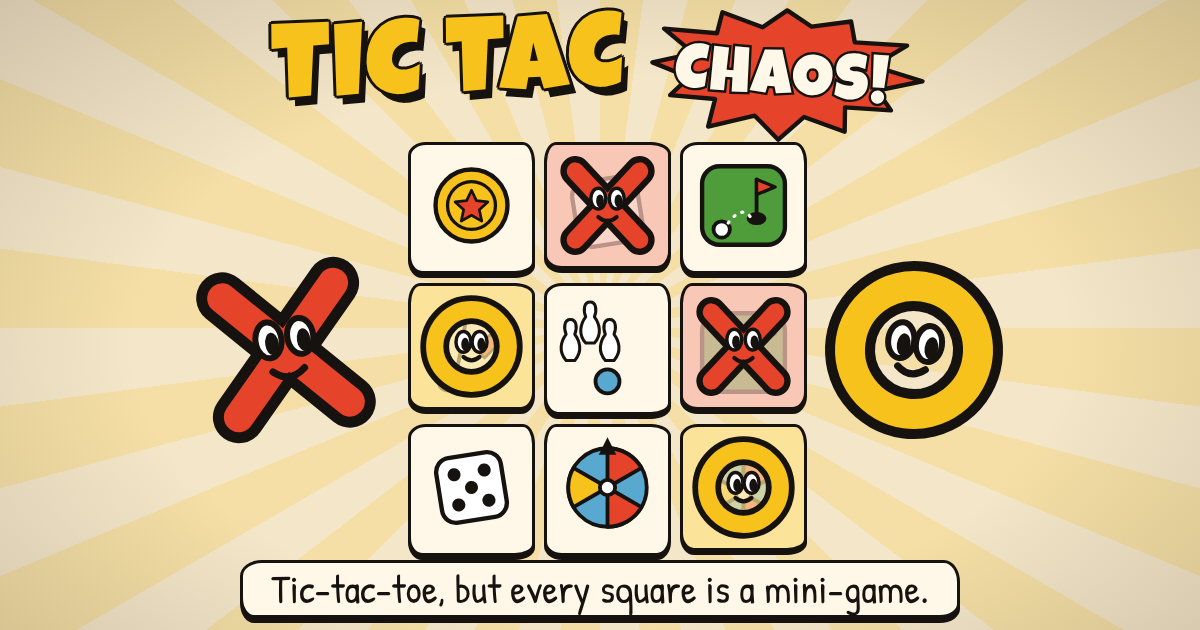
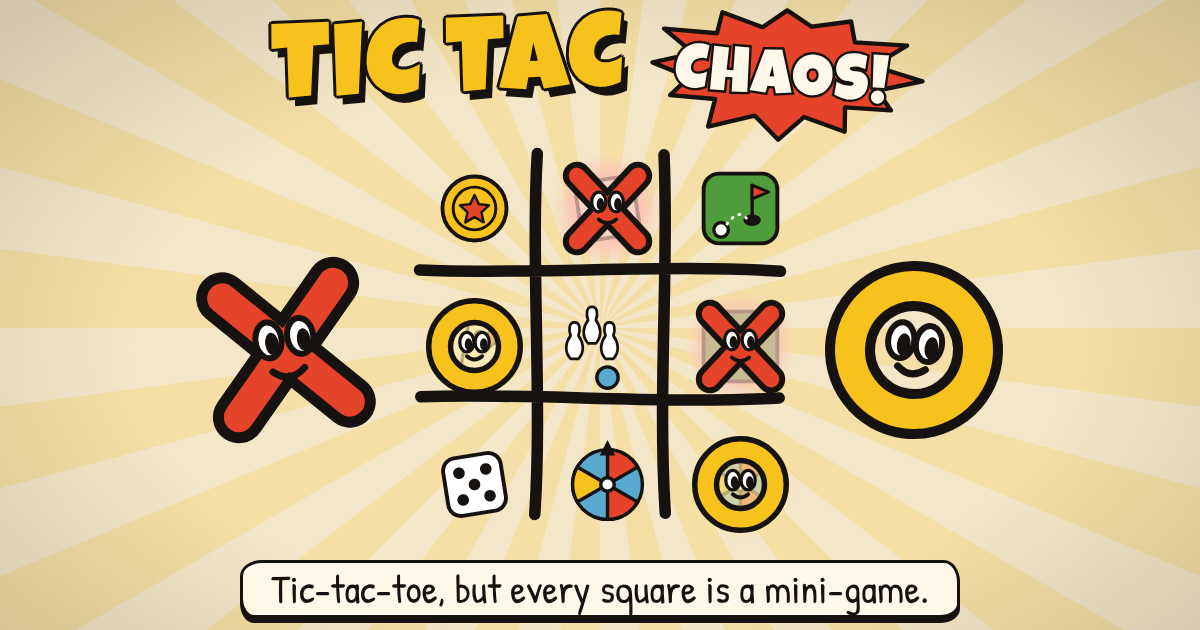
Main board as a classic # grid: hand-drawn strokes, no boxes; glows for highlights; the same # everywhere
- ui/hash.js: one drawing of the # (four bold, slightly wavering strokes with round ends) as SVG and as canvas strokes.
- Main board and review: the spaces have no box, border or frame; each is still its full button (gap 0) with its miniature padded clear of the lines; claims stamp as before.
- Highlights are soft glows in the space: claims, last played, the opponent's chosen square, Super Chaos wins; the draw/reset plays in the open space.
- The result screen's final board, the history snapshot, the share card and the link-preview image use the same #; og-image.png regenerated.
- tests/ui/hash-board.test.mjs; CLAUDE.md note.

Claude-Session: https://claude.ai/code/session_01P6kuR5jsvUvzva5f217c15

Changed region(s): [[0.3392, 0.2111, 0.6783, 0.9048]]

diff --git a/src/ui/styles.css b/src/ui/styles.css
@@ -3087,3 +3087,41 @@ main.scr.mini:has(.brkw.run) .back { visibility: hidden; pointer-events: none; }
 .tbrk .tbrkp { stroke: var(--ink); stroke-width: 1; } .tbrk .tbrkp.X { fill: var(--x); } .tbrk .tbrkp.O { fill: var(--o); }
 .tbrk .tbrko { fill: var(--paper); stroke: var(--ink); stroke-width: 1; }
 .tbrk .tbrkl { font: 800 9px Nunito, Arial, sans-serif; fill: #fff; } .tbrk .tbrkl.X { fill: var(--x); } .tbrk .tbrkl.O { fill: var(--o); }
+
+/* ===== The # board (November 2026): a classic tic-tac-toe grid, no boxes =====
+   The board is four bold hand-drawn strokes with round ends (ui/hash.js, one drawing for every board picture), over
+   nine open spaces with no border, box or outer frame. Each space is still its whole button (gap 0: the tap target
+   is the full space), its miniature padded clear of the lines. Highlights are soft glows in the space (::before):
+   a claim's tint under its stamp, the last-played square, the opponent's chosen square (spot), Super Chaos's wins. */
+.board { gap: 0; }
+.board > .hash { position: absolute; inset: 0; width: 100%; height: 100%; color: var(--ink); pointer-events: none; z-index: 2; overflow: visible; }
+.board .sq { background: transparent; border: 0; border-radius: 0; box-shadow: none; padding: calc(var(--s) * .05); isolation: isolate; overflow: visible; }
+.board .sq:nth-child(2n) { border-radius: 0; }
+.board .sq:active:not(:disabled) { transform: scale(.95); box-shadow: none; }
+.board .sq::before { content: ''; position: absolute; inset: 9%; z-index: -1; border-radius: 46% 40% 48% 42% / 42% 48% 40% 46%; pointer-events: none; opacity: 0; transition: opacity .2s; }
+.board .sq.own-X, .board .sq.own-O, .board .sq.last-X, .board .sq.last-O { box-shadow: none; background: transparent; }
+.board .sq.own-X::before { opacity: 1; background: radial-gradient(closest-side, var(--x-soft) 62%, transparent 100%); }
+.board .sq.own-O::before { opacity: 1; background: radial-gradient(closest-side, var(--o-soft) 62%, transparent 100%); }
+.board .sq.last-X::before { opacity: 1; background: radial-gradient(closest-side, color-mix(in srgb, var(--x) 30%, transparent) 30%, transparent 100%); }
+.board .sq.last-O::before { opacity: 1; background: radial-gradient(closest-side, color-mix(in srgb, var(--o) 38%, transparent) 30%, transparent 100%); }
+.board .sq.spot, .board .sq.scwin { animation: none; }
+.board .sq.spot::before, .board .sq.scwin::before { opacity: 1; inset: 4%; background: radial-gradient(closest-side, color-mix(in srgb, var(--spot) 55%, transparent) 25%, transparent 100%); animation: sqglow 1s ease-in-out infinite; }
+.board .sq.scwin::before { animation-iteration-count: 2; }
+@keyframes sqglow { 0%, 100% { opacity: .55; transform: scale(.9); } 50% { opacity: 1; transform: scale(1.04); } }
+@media (prefers-reduced-motion: reduce) { .board .sq.spot::before, .board .sq.scwin::before { animation: none; } }
+.board .sq .spot-lab { left: 9%; right: 9%; bottom: 7%; }
+.board .sq .lpbs { right: 9%; bottom: 9%; }
+.board .drawold { border-radius: 0; background: transparent; }
+.sq.ztile { background: var(--paper); border-radius: 18px; }   /* (the zoom's tile grows into the game area as a sheet of paper) */
+/* the result screen's final board: the same #, the X and O characters in its spaces, the winning line's glow */
+.final { position: relative; gap: 0; }
+.final > .hash { position: absolute; inset: 0; width: 100%; height: 100%; color: var(--ink); pointer-events: none; }
+.final > i, .final > i.X, .final > i.O { background: transparent; border: 0; border-radius: 0; box-shadow: none; padding: 10%; }
+.final > i.hl { box-shadow: none; background: radial-gradient(closest-side, color-mix(in srgb, var(--sky) 55%, transparent) 40%, transparent 100%); }
+/* the history snapshot: the # at 46px, X and O in its spaces; the player's own squares a soft ink glow */
+.hsnap { position: relative; gap: 0; padding: 0; background: none; border: 0; border-radius: 0; }
+.hsnap > .hash { position: absolute; inset: 0; width: 100%; height: 100%; color: var(--ink); pointer-events: none; }
+.hsnap i, .hsnap i.X, .hsnap i.O { background: transparent; border-radius: 0; box-shadow: none; }
+.hsnap i.mine { box-shadow: none; border-radius: 50%; background: radial-gradient(closest-side, color-mix(in srgb, var(--ink) 18%, transparent) 50%, transparent 100%); }
+.final > i, .final > i.X, .final > i.O { padding: 5%; }
+.final > i .pc { width: 92%; height: 92%; }

diff --git a/src/ui/sharecard.js b/src/ui/sharecard.js
@@ -3,6 +3,7 @@
 // the final board, both names, the result and the site's address (no rematch code: November 2026). The win screen's Share result makes it on a canvas and hands it to the share sheet as a PNG
 // (net/platform.js shareFile); where there is none it is saved and its text copied. The text and the layout are worked
 // out apart from the canvas (cardData, fitSize, toonSvg: tests/ui/sharecard.test.mjs); paintCard alone draws.
+import { hashPath } from './hash.js';
 import { playerName } from '../core/match.js';
 import { other } from '../core/util.js';
 import { copyText, downloadFile, shareFile, siteUrl } from '../net/platform.js';
@@ -125,6 +126,13 @@ function mark(ctx, p, img, x, y, s, pal) {
   };
   pass(p === 'X' ? 26 : 25, pal.ink); pass(15, col);
 }
+// A colour at no opacity (a glow fades to its own colour, never through grey): '#rgb', '#rrggbb' or 'rgb(...)'.
+export function clear(col) {
+  const c = String(col).trim();
+  if (c[0] === '#') { const h = c.length === 4 ? c.slice(1).split('').map(x => x + x).join('') : c.slice(1, 7); return `rgba(${parseInt(h.slice(0, 2), 16)},${parseInt(h.slice(2, 4), 16)},${parseInt(h.slice(4, 6), 16)},0)`; }
+  const m = c.match(/rgba?\(([^)]+)\)/); if (m) { const v = m[1].split(/[ ,/]+/).filter(Boolean).slice(0, 3); return `rgba(${v.join(',')},0)`; }
+  return 'rgba(255,255,255,0)';
+}
 // The whole card on a 2d context (CARD x CARD): d from cardData, pal from palette, imgs the two characters' Images (or null).
 export function paintCard(ctx, d, pal, imgs) {
   const L = LAYOUT, W = CARD, cx = W / 2;
@@ -141,13 +149,22 @@ export function paintCard(ctx, d, pal, imgs) {
   ctx.font = font(LG, tSize); ctx.textAlign = 'center'; ctx.textBaseline = 'alphabetic'; ctx.fillStyle = pal.ink;
   ctx.fillText(d.title, cx, L.titleY);
   // the board
-  const { cell, gap, top } = L.board, size = cell * 3 + gap * 2, left = (W - size) / 2;
-  const R1 = [22, 15, 24, 17], R2 = [15, 24, 17, 22];
+  // the board: the # (ui/hash.js, as on the page), each claim a soft glow in its space with its character over it, the
+  // winning line's spaces a stronger glow in the winner's colour
+  const { cell, gap, top } = L.board, size = cell * 3 + gap * 2, left = (W - size) / 2, sp = size / 3;
+  const glow = (cxp, cyp, r, col, a) => { const g = ctx.createRadialGradient(cxp, cyp, 0, cxp, cyp, r); g.addColorStop(0, col); g.addColorStop(0.62, col); g.addColorStop(1, clear(col)); ctx.save(); ctx.globalAlpha = a; ctx.fillStyle = g; ctx.beginPath(); ctx.arc(cxp, cyp, r, 0, Math.PI * 2); ctx.fill(); ctx.restore(); };
   for (let i = 0; i < 9; i++) {
-    const r = Math.floor(i / 3), c = i % 3, x = left + c * (cell + gap), y = top + r * (cell + gap), own = d.owners[i];
-    box(ctx, x, y, cell, cell, i % 2 ? R2 : R1, own === 'X' ? pal.xs : own === 'O' ? pal.os : pal.paper, pal);
-    if (own) mark(ctx, own, imgs && imgs[own], x + cell * 0.1, y + cell * 0.1, cell * 0.8, pal);
-    if (own && d.winLine.includes(i)) { ctx.lineWidth = 8; ctx.strokeStyle = own === 'X' ? pal.x : pal.o; rrect(ctx, x + 9, y + 9, cell - 18, cell - 18, (i % 2 ? R2 : R1).map(v => v - 6)); ctx.stroke(); }
+    const own = d.owners[i]; if (!own) continue;
+    const r = Math.floor(i / 3), c = i % 3, mx = left + c * sp + sp / 2, my = top + r * sp + sp / 2;
+    glow(mx, my, sp * 0.44, own === 'X' ? pal.xs : pal.os, 1);
+    if (d.winLine.includes(i)) glow(mx, my, sp * 0.46, own === 'X' ? pal.x : pal.o, 0.35);
+  }
+  ctx.save(); ctx.lineCap = 'round'; ctx.lineJoin = 'round'; ctx.strokeStyle = pal.ink; ctx.lineWidth = 15;
+  hashPath(ctx, left, top, size); ctx.stroke(); ctx.restore();
+  for (let i = 0; i < 9; i++) {
+    const own = d.owners[i]; if (!own) continue;
+    const r = Math.floor(i / 3), c = i % 3, x = left + c * sp, y = top + r * sp;
+    mark(ctx, own, imgs && imgs[own], x + sp * 0.14, y + sp * 0.14, sp * 0.72, pal);
   }
   // both names, each beside their character
   const nm = measurer(ctx, LG), tn = L.toon;

diff --git a/scripts/make-share-images.js b/scripts/make-share-images.js
@@ -5,6 +5,7 @@
 //   node scripts/make-share-images.js        (npm run share-images)
 const fs = require('node:fs');
 const path = require('node:path');
+const { hashSvg } = require('../src/ui/hash.js');   // the board's # (one drawing with the page's board)
 const OUT = path.join(__dirname, '..', 'assets', 'share');
 const fonts = fs.readFileSync(path.join(__dirname, '..', 'src', 'ui', 'fonts.css'), 'utf8');
 const INK = '#161210', CREAM = '#f4e6c8', PAPER = '#fff8e8', X = '#e5432a', O = '#f6c21b', SKY = '#58a8cf', GREEN = '#4e9d3a';
@@ -39,12 +40,13 @@ body{background:${CREAM};position:relative;font-family:'Patrick Hand',cursive;co
 .title{position:absolute;left:0;right:0;top:6px;display:flex;justify-content:center;align-items:center;gap:6px;height:130px}
 .tt{font-family:'Luckiest Guy',sans-serif;font-size:108px;line-height:1;color:${O};text-shadow:${ol2},6px 9px 0 ${INK};letter-spacing:2px;transform:rotate(-2deg)}
 .title .bw{width:290px;height:145px;margin-left:6px;transform:rotate(4deg)} .bw svg{width:100%;height:100%;overflow:visible} .bt{font-family:'Luckiest Guy',sans-serif;fill:${PAPER};stroke:${INK};stroke-width:5;paint-order:stroke fill;letter-spacing:2px}
-.board{position:absolute;left:50%;top:142px;width:384px;margin-left:-192px;display:grid;grid-template-columns:repeat(3,1fr);gap:9px}
-.sq{background:${PAPER};border:3.5px solid ${INK};box-shadow:0 4px 0 ${INK};border-radius:18px 12px 20px 14px/14px 20px 12px 18px;aspect-ratio:1;padding:6px;position:relative}
-.sq:nth-child(2n){border-radius:12px 20px 14px 18px/20px 12px 18px 14px}
+.board{position:absolute;left:50%;top:142px;width:384px;height:384px;margin-left:-192px;display:grid;grid-template-columns:repeat(3,1fr);grid-template-rows:repeat(3,1fr);gap:0}
+.board>.hash{position:absolute;inset:0;width:100%;height:100%;color:${INK};overflow:visible}
+.sq{aspect-ratio:1;padding:18px;position:relative}
+.sq.own::before{content:'';position:absolute;inset:9%;border-radius:50%}
+.sq.own.X::before{background:radial-gradient(closest-side,#f9c7b6 62%,transparent)} .sq.own.O::before{background:radial-gradient(closest-side,#fbe39a 62%,transparent)}
 .sq svg{width:100%;height:100%}
-.sq.own.X{background:#f9c7b6} .sq.own.O{background:#fbe39a}
-.sq .ghost{position:absolute;inset:6px;width:calc(100% - 12px);opacity:.28} .sq .big{position:absolute;inset:3px;width:calc(100% - 6px);height:calc(100% - 6px);z-index:1}
+.sq .ghost{position:absolute;inset:18px;width:calc(100% - 36px);height:calc(100% - 36px);opacity:.28} .sq .big{position:absolute;inset:12px;width:calc(100% - 24px);height:calc(100% - 24px);z-index:1}
 .pal{position:absolute;width:200px;height:200px;top:250px}
 .pal.l{left:186px;transform:rotate(-8deg)} .pal.r{right:186px;transform:rotate(8deg)}
 .pal svg{width:100%;height:100%}
@@ -54,7 +56,7 @@ const page = body => `<!doctype html><meta charset="utf-8"><style>${CSS}</style>
 const SHARE = page(`<div class="rays"></div><div class="vig"></div>
 <div class="title"><div class="tt">TIC TAC</div><div class="bw">${burst('CHAOS!', 300, 150, 66)}</div></div>
 <div class="pal l">${svg(toonX())}</div><div class="pal r">${svg(toonO())}</div>
-<div class="board">${cells}</div>
+<div class="board">${cells}${hashSvg('hash', 9)}</div>
 <div class="tag"><span>Tic-tac-toe, but every square is a mini-game.</span></div>`);
 // The icon: the X character on a cream square (a phone rounds the corners itself, so it fills the square).
 const ICON = size => `<!doctype html><meta charset="utf-8"><style>html,body{margin:0;width:${size}px;height:${size}px;overflow:hidden}body{background:${CREAM};display:grid;place-items:center}svg{width:${Math.round(size * .86)}px;height:${Math.round(size * .86)}px;overflow:visible}</style>${svg(`<circle cx="50" cy="50" r="46" fill="${O}" stroke="${INK}" stroke-width="5"/><g transform="translate(50 50) scale(.78) translate(-50 -50)">${toonX()}</g>`)}`;

diff --git a/src/ui/board.js b/src/ui/board.js
@@ -1,4 +1,5 @@
 // The main board: the nine squares and their miniatures (each game's view.js: miniature).
+import { hashSvg } from './hash.js';
 import { playerName } from '../core/match.js';
 import { fullState } from '../core/records.js';
 import { ANIM } from '../core/timer.js';
@@ -55,6 +56,7 @@ export const BOARD_BURST = [320, 500];           // when the two bursts on the b
 // tile flick away to one side as the new game's label and miniature deal in from the other (DRAW_SHUFFLE), all over by
 // DRAW_MS. In base time, like the stamp: it plays at the game's pace (Speed's too). The old game is drawn from the
 // move's own record of it (drawOld: the flash's `drawn`); without it (none kept), the stamp and the deal alone.
+const HASH_SVG = hashSvg('hash', 8);   // the board's #: drawn over the spaces, never taking a tap (each space is its whole button)
 export const DRAW_MS = 1150;
 export const DRAW_SHUFFLE = [620, 760];          // the old game flicks away, the new one deals in (ms after the stamp starts)
 export function renderBoard(review) {
@@ -95,7 +97,7 @@ export function renderBoard(review) {
     return `<button class="${cls.join(' ')}" data-act="zoom" data-i="${i}" aria-label="${label}"${spot && spot.square === i ? fxAttr(fxAt('spot', spot)) : vd && vd.at != null ? fxAttr(vd.at) : ''}${cpuTurn() || rc ? ' disabled' : ''}>${body}</button>`;
   }).join('');
   if (review) return `<main class="scr board-scr review-scr"><div class="revhead"><button class="back" data-act="${reviewCtx.back}" aria-label="${reviewCtx.backAria}">${CHEV}${reviewCtx.backLabel}</button>
-      <div class="ttl"><b>${reviewCtx.title}</b><small>Tap any square to see how it ended</small></div></div><div class="board">${sqs}</div>
+      <div class="ttl"><b>${reviewCtx.title}</b><small>Tap any square to see how it ended</small></div></div><div class="board">${sqs}${HASH_SVG}</div>
     <div class="foot"><span class="hint">Every hidden word, number, card and ship is shown</span></div>${pauseMenu()}</main>`;
   const hint = state.sc && !state.winner ? scHint() : spot ? (cpuPlays(spot.by) ? CPU_ICON : '') + esc(spot.label) : cpuTurn() ? `${N(state.turn)} is thinking…` : remoteTurn() ? `Waiting for ${N(state.turn)}…`
     : state.moves ? 'Tap any open square to make a move' : `${N(state.turn)}: tap a square to start`;
@@ -106,7 +108,7 @@ export function renderBoard(review) {
   // Classic: whose move it is as a small bar under the board, in the foot's own room (the hint's place: nothing moves);
   // Super Chaos keeps its band across the board.
   const sc = !!state.sc, under = !sc && w.html;
-  return `<main class="scr board-scr${sc && w.on ? ' waiting' : ''}">${netBar()}<div class="board">${sqs}${pow}${sc ? w.html : ''}</div>
+  return `<main class="scr board-scr${sc && w.on ? ' waiting' : ''}">${netBar()}<div class="board">${sqs}${HASH_SVG}${pow}${sc ? w.html : ''}</div>
     <div class="foot${under ? ' fwait' : ''}">${under ? w.html : `<span class="hint">${hint}</span>`}</div>${pauseMenu()}</main>`;
 }
 // A drawn square's overlay on the board: the old game's tile (its label and miniature as the draw left them), and the

diff --git a/src/ui/screens/win.js b/src/ui/screens/win.js
@@ -1,4 +1,5 @@
 // The end of a match: the win, loss and draw screens.
+import { hashSvg } from '../hash.js';
 import { playerName } from '../../core/match.js';
 import { other } from '../../core/util.js';
 import { connected } from '../../net/connect.js';
@@ -97,7 +98,7 @@ export function renderWin() {
   ).join('');
   return `<main class="scr win-scr">${netBar()}<div class="win-card${isMM() ? ' mm' : ''}">
     <div class="winburst">${endBurst(endMessage())}</div><div class="big-g ${w}">${toonT(w)}</div><h1>${isYou(w) ? 'You win' : `${N(w)} wins`} the match!</h1><p>${why}</p>${mmResult()}
-    <div class="final" aria-hidden="true">${final}</div>
+    <div class="final" aria-hidden="true">${final}${hashSvg('hash', 10)}</div>
     <div class="row">${againBtns()}<button class="btn" data-act="review">View board</button><button class="btn" data-act="${state.online ? 'leave' : 'menu'}">Main menu</button></div>${rematchNote()}${shareBtn()}</div></main>`;
 }
 
@@ -109,6 +110,6 @@ function renderDraw() {
   const final = state.squares.map(s => `<i class="${s.owner || ''}">${s.owner ? toonT(s.owner) : ''}</i>`).join('');
   return `<main class="scr win-scr">${netBar()}<div class="win-card${isMM() ? ' mm' : ''}">
     <div class="winburst">${endBurst(endMessage())}</div><div class="big-g both">${toonT('X')}${toonT('O')}</div><h1>It's a draw!</h1><p>${state.winReason === 'both' ? 'Both made three in a row in the same round' : state.winReason === 'timeout' ? 'Both missed two rounds in a row' : 'Nobody could get three in a row any more, so the match ended there'}</p>${mmResult()}
-    <div class="final" aria-hidden="true">${final}</div>
+    <div class="final" aria-hidden="true">${final}${hashSvg('hash', 10)}</div>
     <div class="row">${againBtns()}<button class="btn" data-act="review">View board</button><button class="btn" data-act="${state.online ? 'leave' : 'menu'}">Main menu</button></div>${rematchNote()}${shareBtn()}</div></main>`;
 }

diff --git a/src/ui/hash.js b/src/ui/hash.js
@@ -1,0 +1,27 @@
+// The # of every board picture (November 2026): four bold, slightly wavering strokes with round ends, in a 300x300
+// box (the lines near a third and two thirds, stopping short of the edges), and no boxes or outer frame. One drawing
+// for the main board, the result screen's final board, the history snapshot, the share card and the link-preview
+// image (scripts/make-share-images.js). Pure: no page, no imports.
+export const HASH = [   // each stroke a cubic: start, two controls, end
+  [[101, 9], [96, 92], [105, 206], [99, 291]],
+  [[200, 10], [204, 96], [195, 196], [201, 290]],
+  [[9, 100], [96, 104], [206, 95], [291, 101]],
+  [[10, 199], [101, 196], [194, 205], [290, 200]],
+];
+const f = v => +v.toFixed(2);
+// The path's d, scaled to a box of `size` (300: the viewBox).
+export function hashD(size = 300) {
+  const k = size / 300;
+  return HASH.map(([a, b, c, d]) => `M${f(a[0] * k)} ${f(a[1] * k)}C${[b, c, d].map(p => `${f(p[0] * k)} ${f(p[1] * k)}`).join(' ')}`).join('');
+}
+// The # as inline SVG over its box (a board's own child, absolutely placed by its class). `width`: the stroke in
+// viewBox units (the box is 300 across), coloured by currentColor.
+export function hashSvg(cls, width = 8) {
+  return `<svg class="${cls}" viewBox="0 0 300 300" preserveAspectRatio="none" aria-hidden="true" focusable="false"><path d="${hashD()}" fill="none" stroke="currentColor" stroke-width="${width}" stroke-linecap="round" stroke-linejoin="round"/></svg>`;
+}
+// The same strokes on a 2d canvas context, for the box at (x, y) of `size` (the caller strokes).
+export function hashPath(ctx, x, y, size) {
+  const k = size / 300;
+  ctx.beginPath();
+  for (const [a, b, c, d] of HASH) { ctx.moveTo(x + a[0] * k, y + a[1] * k); ctx.bezierCurveTo(x + b[0] * k, y + b[1] * k, x + c[0] * k, y + c[1] * k, x + d[0] * k, y + d[1] * k); }
+}

diff --git a/src/ui/screens/profile.js b/src/ui/screens/profile.js
@@ -1,4 +1,6 @@
 // Profiles, My Stats, game history and the leaderboard.
+import { hashSvg } from '../hash.js';
+const SNAP_HASH = hashSvg('hash', 16);   // the history snapshot's # (a bolder stroke: it is drawn 46px across)
 import { newState } from '../../core/match.js';
 import { upgradeMini } from '../../core/minis.js';
 import { topOpponents } from '../../core/stats.js';
@@ -191,7 +193,7 @@ function histSnap(h) {
     SNAP.set(h.id, own);
   }
   const me = h.side === 'X' || h.side === 'O' ? h.side : null;
-  return `<span class="hsnap" aria-hidden="true">${own.map(o => `<i class="${o}${o && o === me ? ' mine' : ''}">${esc(o)}</i>`).join('')}</span>`;
+  return `<span class="hsnap" aria-hidden="true">${own.map(o => `<i class="${o}${o && o === me ? ' mine' : ''}">${esc(o)}</i>`).join('')}${SNAP_HASH}</span>`;
 }
 // The game history of the profile on show: every online game, newest first, each opening its final board.
 export function renderProfHist() {

diff --git a/CLAUDE.md b/CLAUDE.md
@@ -57,6 +57,7 @@ Create src/games/<name>/ with rules.js, view.js, ai.js and meta.js, and register
 - Animations and sounds fire exactly once, from the move event that caused them, never from rendering or re-rendering. The main board shows a claimed square only after its replay finishes.
 - Claims only on the main board (every mode): a mini-game view shows its own winning moment, never an X/O claim or stamp; its result says only "Won by" and the winner's mark, or "Draw" (`ui/mini.js` `squareEnd`, `wonBy`: the header's result line live and in replays, a held result, a finished square's review; no word revealed, score or reset named; a game's own result line names the move alone, e.g. Pool's "The black!"); the square turns X or O with the stamp after zooming out. Super Chaos claims come after the round resolves, shown on the board a square at a time once both moves have been shown (the winner's label and stamp; a square both won: both marks clash, then it resets, no claim). A player's own move always plays out fully (its animation and result, e.g. the Roulette spin) right after they make it, before any waiting screen, opponent replay or recap: a result of their own progress is never put off to the round's end. Only a result that needs both moves (Mini Golf's shared shot, a Bump knock) is settled at the round's end (`scMerge` returns `resolve`, or `replay`) and played in its square first. Bump: the spin plays at once in the player's own square (the wheel, their own piece's hops; nothing knocked yet); the round's end settles the knocks (`scMerge` `resolve`): if both spun there, both pieces hop together from where the round began, with any bump, as that square's joint resolution (no separate opponent replay), and the board settles to its final positions; the other player's lone spin is their replay, then any knock. Both moving in one shared square of Candy Race, Snakes and Ladders or Treasure Hunt (`rules.js` `scJoint`, `core/chaos.js` after `scMerge`): the recap plays both moves together in the player's own square from where the round began (`ui/track.js` `trackRoundEnd`; both digs open together), with no separate opponent replay, and the square settles to both. Every joint replay (both players in one square: Mini Golf's shots, Bump, Candy Race, Snakes and Ladders, Treasure Hunt, Sniff, Roulette's shared spin, Standoff Grid) uses the standard replay frame like any opponent replay: the pop-up over the board, the banner ("Both moves — replay"), the opponent's colour border, a Skip after 2 seconds and tap anywhere to skip (`ui/chaos.js` `scJointFrame`, `scSkip`; `ui/mini.js`). Super Chaos against the computer has no round clock (`sc.deadline` stays unset; `ui/chaos.js`, `clock.js`, `turnbar.js` show one only online). On a shared board where the other player's move can change the outcome (Standoff Grid's collisions, Sea Battle's last parts), the mover's own screen never shows a win, a line or a sink: their move plays unjudged (`scApply`), and lines and wins are looked for only at the round's resolution, after both moves (and any collision block) apply, as with Roulette and Mini Golf (`scMerge`; `resolve` plays it in the square). The main board never shows anything of the opponent's move (a miniature's change, a claim, their last-played badge) until that move's replay has played (`scShown`: `recap.mine`). No main-board change before its replay, on every path (claims, resets and the new mini-game a reset deals, miniatures; online, server-run and vs the computer, a late join or a reload): a square both won shows its old game until its replay or joint resolution has played, then clashes and resets (`scShown` treats a recap not yet under way as its waiting stage, never as the settled board). No gap between waiting and replay: the opponent's replay is available as soon as their move's result is known (online, the waiting phone starts the recap at once; only the last mover's phone starts it after its own result, `recap.lead`), and the waiting band ("Waiting for [name]…", `board.js` `waitBand`) stays up until the replay is ready to play. A player waiting in their own square for the round's end (Mini Golf, any joint-resolution game) sees that same band over the game, not small text. After locking in, a player sees their own outcome before anything else (online and vs the computer): a result settled only at the round's end (Mini Golf's shots, Roulette's shared spin, a Bump knock, Standoff Grid, Sniff, any game whose result needs both moves) plays in their own square first (`core/chaos.js` `scRecapOrder`). Both in the same square: once both are in, the joint resolution plays there in the player's own view (both shots, the shared spin, both moves and any collision: `scMerge` `resolve` with `joint`), its result held, and that square gets no opponent replay. The opponent elsewhere: own outcome first, then the opponent's replay. Both in the same square of an individual-progress game (Risky Spins, Blackjack, Higher/Lower: nothing settled jointly): no joint resolution, so each still sees the other's replay. The opponent's replay always plays from its start the first time a phone reaches it (a phone held up, frozen or out of sight rewinds the recap to it: `ui/chaos.js` `oppCatchUp`), never a moment of it; a replay that cannot play is logged to the match log (`devError('replay')`), never shown as an empty pop-up. A phone that joins a recap late (out of sight, the menu open, reopened) still plays its own outcome from its start.
 - Whose move it is (Classic, online): a small bar under the board in the foot's own room ("[name] is playing…", their character and the countdown: `ui/board.js` `waitBand`, `.foot .wband`), never a band across the board (November 2026); Super Chaos keeps its band. A replay's Skip sits at the bottom left, clear of the reactions' button at the bottom right (`.rskip`). The join screen shows only Opponent (the host's name), Timer and Mini-games (`ui/screens/online.js` `renderJoin`). Headcount says "ladybugs" (`headcount/rules.js` `HEAD_KINDS`; the ids stay `ladybird`).
+- The # board (November 2026): every board picture is a classic tic-tac-toe grid, four bold hand-drawn strokes with round ends and no boxes, borders or outer frame, all from one drawing (`ui/hash.js`: `HASH`, `hashSvg`, `hashPath` for a canvas): the main board and its review (`ui/board.js`, the `.hash` layer over the spaces, never taking a tap), the result screen's final board (`ui/screens/win.js`), the history snapshot (`ui/screens/profile.js`), the share card (`ui/sharecard.js`) and the link-preview image (`scripts/make-share-images.js`). Each space is still its whole button (`.board` gap 0), its miniature padded clear of the lines; claims stamp over it as before. Highlights are soft glows in the space (`.sq::before`), never a square border: a claim's tint, the last-played square, the opponent's chosen square (`spot`), Super Chaos's wins; the draw/reset animation plays in the open space. `tests/ui/hash-board.test.mjs`.
 - Board ↔ square zoom (November 2026): opening or leaving a square is a shared-element FLIP transition (`ui/fx.js` zoom section: `zoomPrep` before the screen swap and `zoomRun` after, from `render.js`): in, the tapped square's tile grows from its rect into the game area while the full view scales from the square to identity and the board fades and scales back; out, the reverse, the outgoing view kept as a fixed `.zghost` (outside `#app`, no taps) shrinking into its exact square while the board returns (scaled from 0.94 about that square). Transforms and opacity only (Web Animations), `cubic-bezier(.4,0,.2,1)`, 300 ms Normal and 180 ms Speed (divided by the admin's base speed only), none with reduced motion; the new screen takes taps at once and its layout and canvases are computed at full size (`ui/runner.js` `runCanvas` uses the unscaled size mid-zoom; canvases repaint once at the end); a re-render mid-zoom keeps it (`zoomKeep`). The claim stamp, the Draw stamp, their sounds and buzz, the end screen, the your-turn chime and online the next playback start once the zoom out has landed (`zoomLeft`, `zoomBusy`); the computer's and the opponent's moves zoom the same way, their replay starting once the zoom in has landed. Super Chaos and the history review are left as they were. `tests/ui/zoom.test.mjs`.
 - Opponent moves (computer or online) are shown: highlight the square on the main board, zoom in, play the move with normal animation at human-like pacing, return. Real-time games show the opponent's attempt live. A replayed tap stops the marker exactly where it was made and holds it there, never past it and back: Bowling's arrow and meter are each timed to be at the recorded aim and power at the moment of its tap, from the tap's scheduled moment (`bowling/view.js` `bowlNow`, the draft's `to`, `bowlRepAim`; `ui/replay.js` `repDue`), never this phone's own sweep restarted under the replay, Bullseye's lines sweep straight to the recorded spot (`bullseye/rules.js` `bullsLeg`; `tests/ui/replay-marker.test.mjs`). What a replay animates (the wheel's stop, the die's face, the words of a spin or roll) comes from the move being replayed, its recorded flash (`a` in a view's `screen`), never from the square's `mini.last`, which may be the viewer's own result (`tests/ui/replay-result.test.mjs`). A number a move changes (a Bank button's points, a score) keeps its old value until the move's animation lands and takes the new one then, timed from the move event (`.cnt` with a `data-delay`), never at the render.
 - Every game must record and replay opponent moves through the shared replay system (`core/replay.js`, `ui/replay.js`): a move carries a compact log (its inputs with their timings, or the run's/attempt's own log or recording) that plays back deterministically through the game's normal view: the selection pressed and typed in, then the move. Online the log rides the move; the computer's moves get one too. Replays play at normal speed (1.5x in Speed, the player's Animation setting) with a Skip button after 2 seconds (and in Speed, a tap anywhere on the square finishing the move); every replay (all games, all modes, the Super Chaos pop-up too) plays through to the end of the move, every animation of it finished, and holds the final state, the score updated, for about 0.6 seconds before it closes (a game's `flashMs` covers all its move's animations; the hold comes after); Super Chaos replays the computer's round at 2x in a pop-up over its square (idle gaps over 0.3 s cut to 0.3 s, a "[name]'s move — replay" banner, a frame in its colour, a replay icon, tap anywhere to skip; Mini Golf's shared shot is the reference), and the board badges each player's last-played square. A game whose view plays the mover's screen from the flash itself (a run, an attempt, a reveal, a throw) says so (`OWN` in `ui/replay.js`); one with a draft (letters, pegs, numbers, cards, a two-tap aim, a pull) adds `replay` hooks (`input`, `synth`) in its `view.js`.
